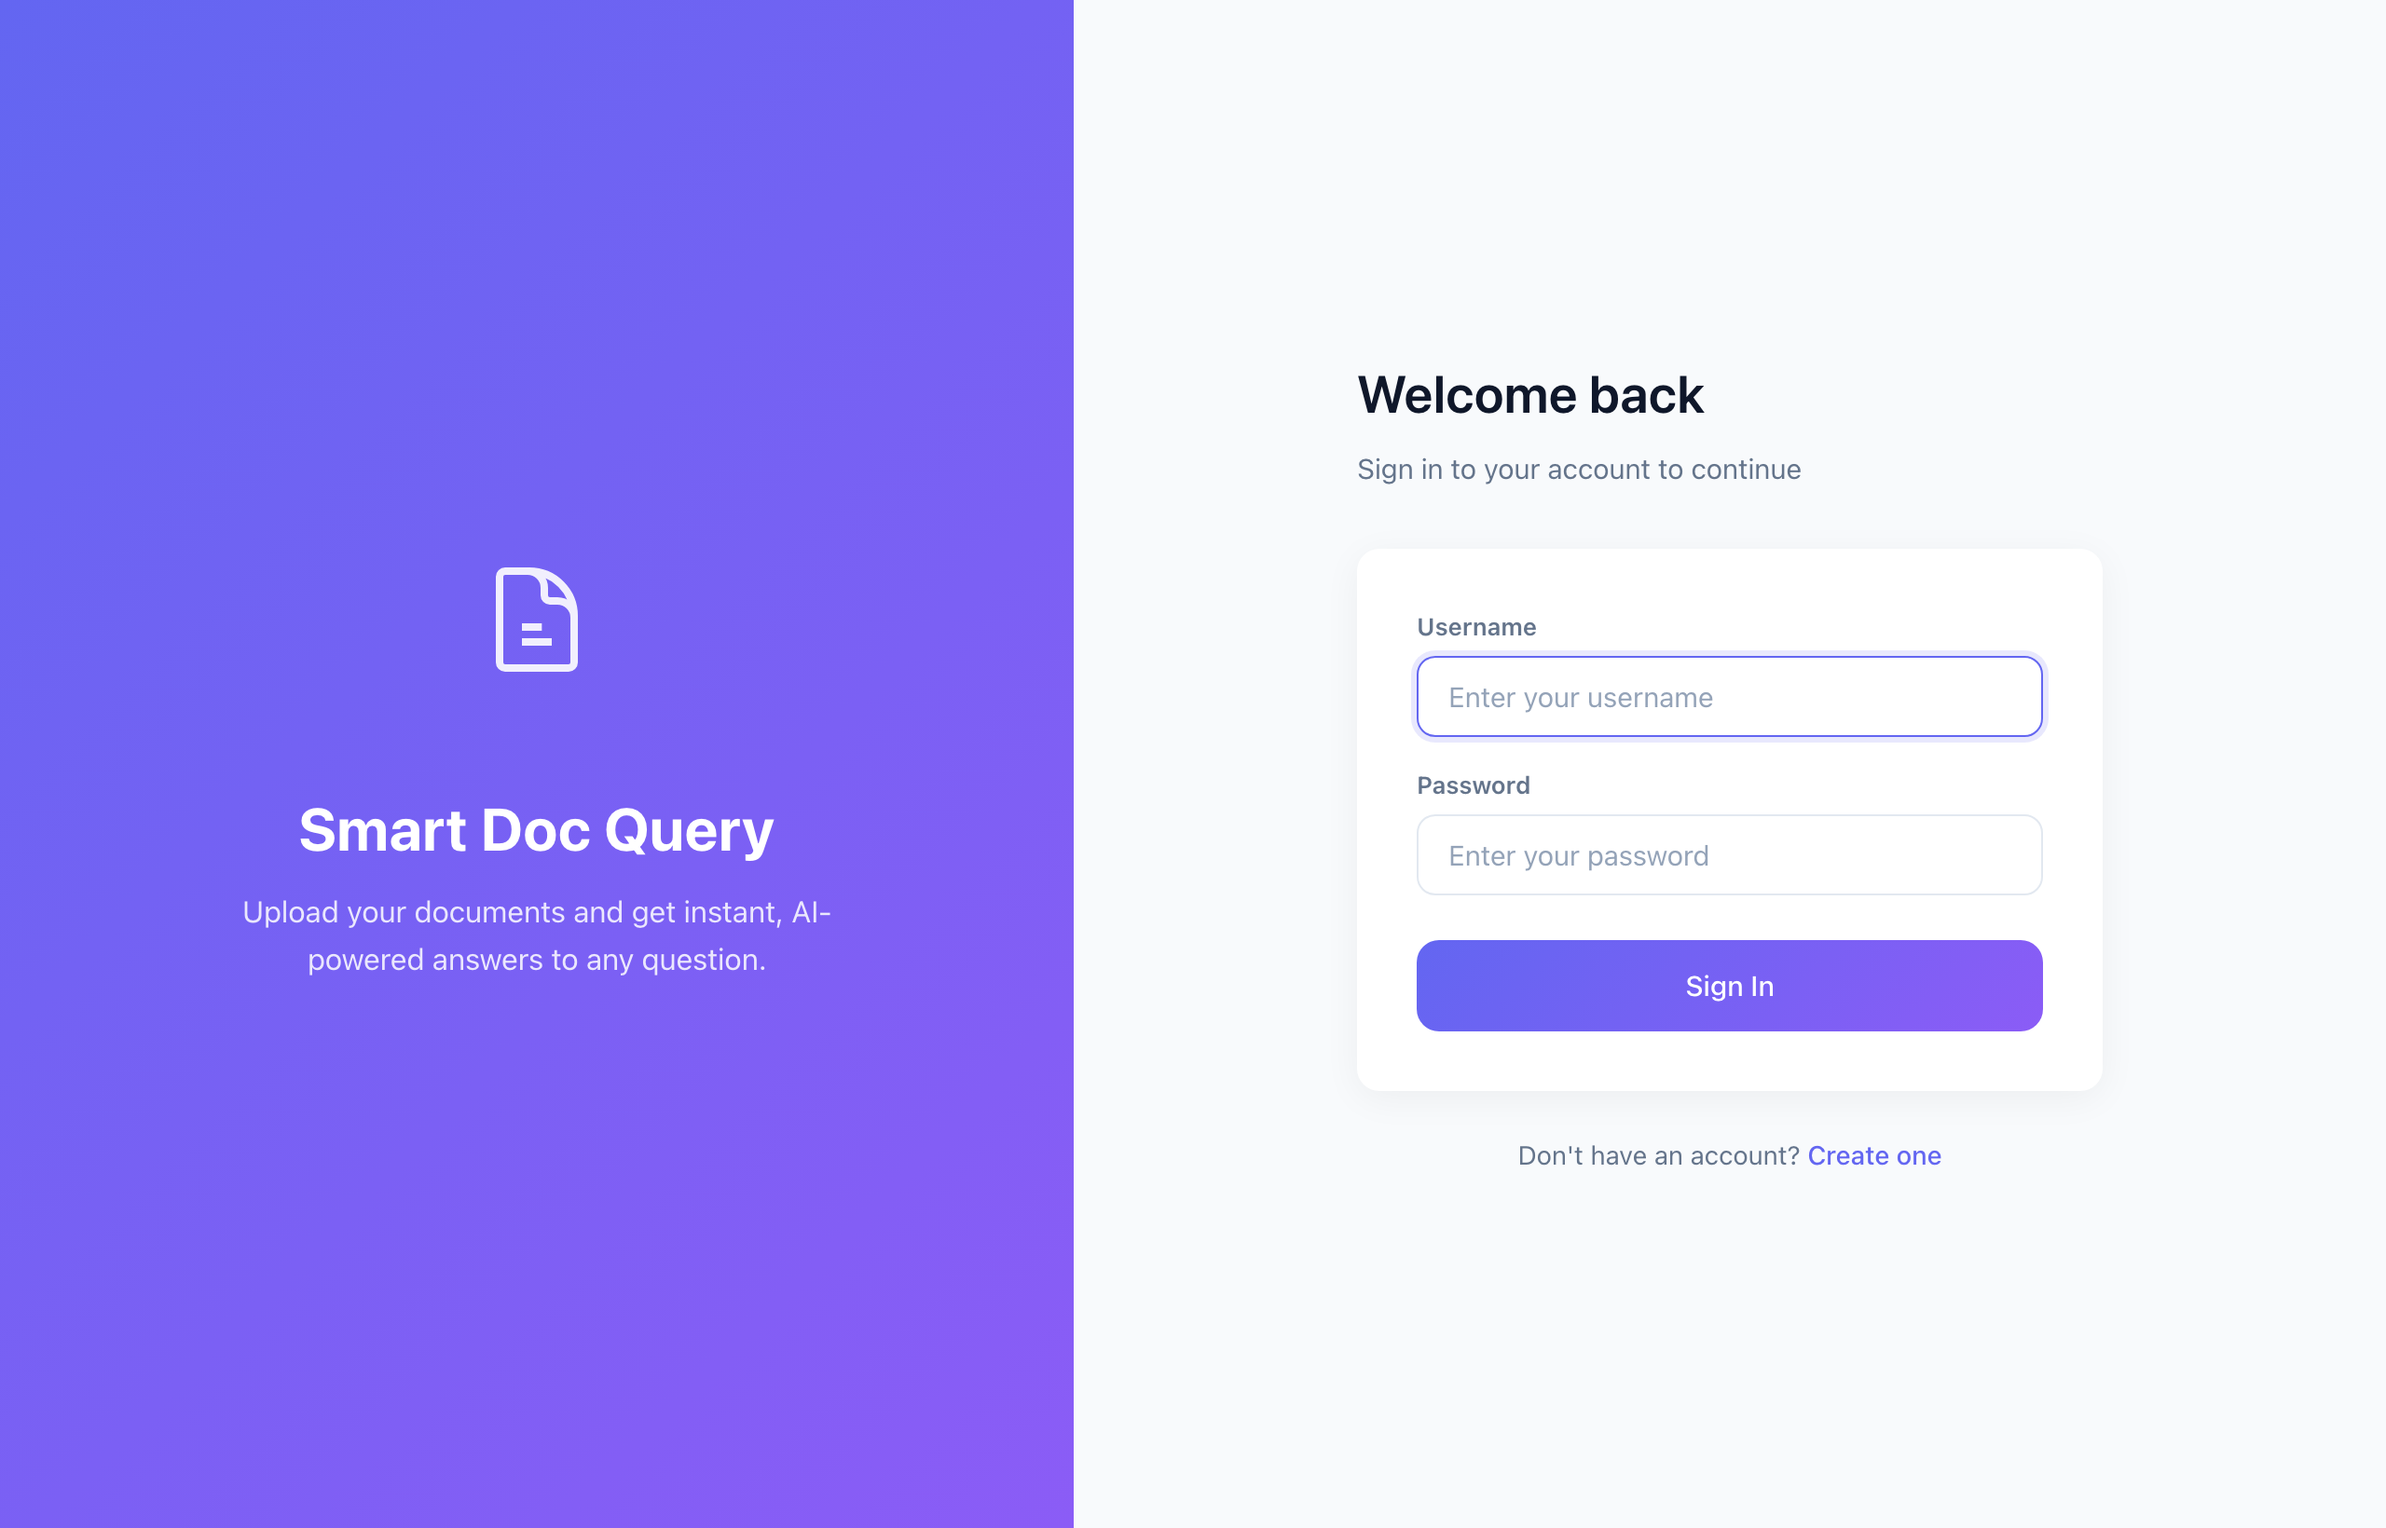
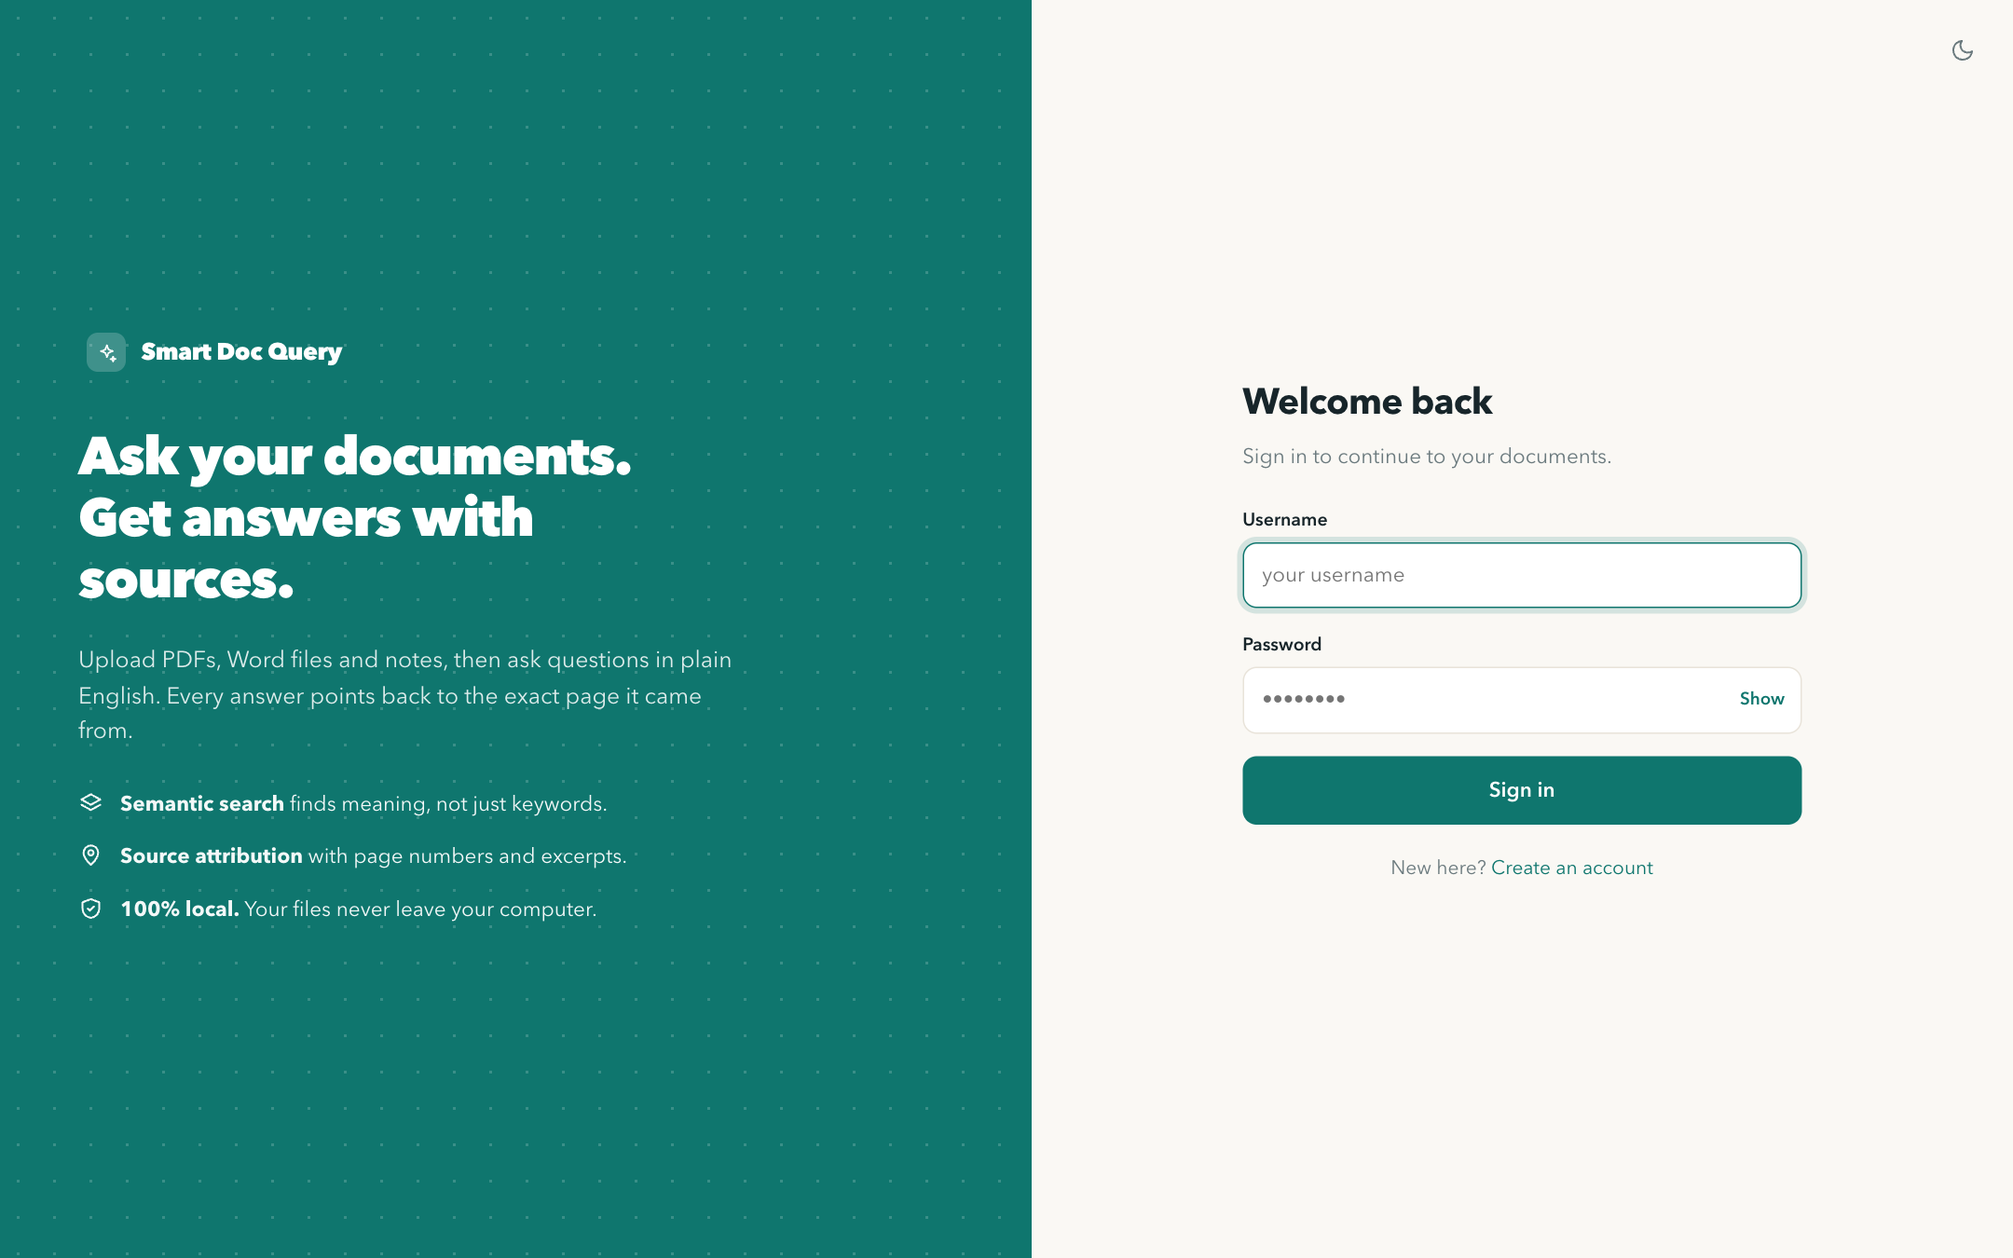
Update README screenshots for the new design

diff --git a/README.md b/README.md
@@ -21,6 +21,15 @@ leaving your computer.
 
 ---
 
+## Screenshots
+
+| | |
+|---|---|
+| ![Answer with evidence](docs/screenshots/chat-answer.png) | ![Document viewer panel](docs/screenshots/document-viewer.png) |
+| Answers show confidence, source file and the matching passages. | Click a source to read the original beside the chat. |
+| ![Dark mode](docs/screenshots/dark-mode.png) | ![Sign in](docs/screenshots/login.png) |
+| Dark theme. | Sign in. |
+
 ## Features
 
 **Documents**
